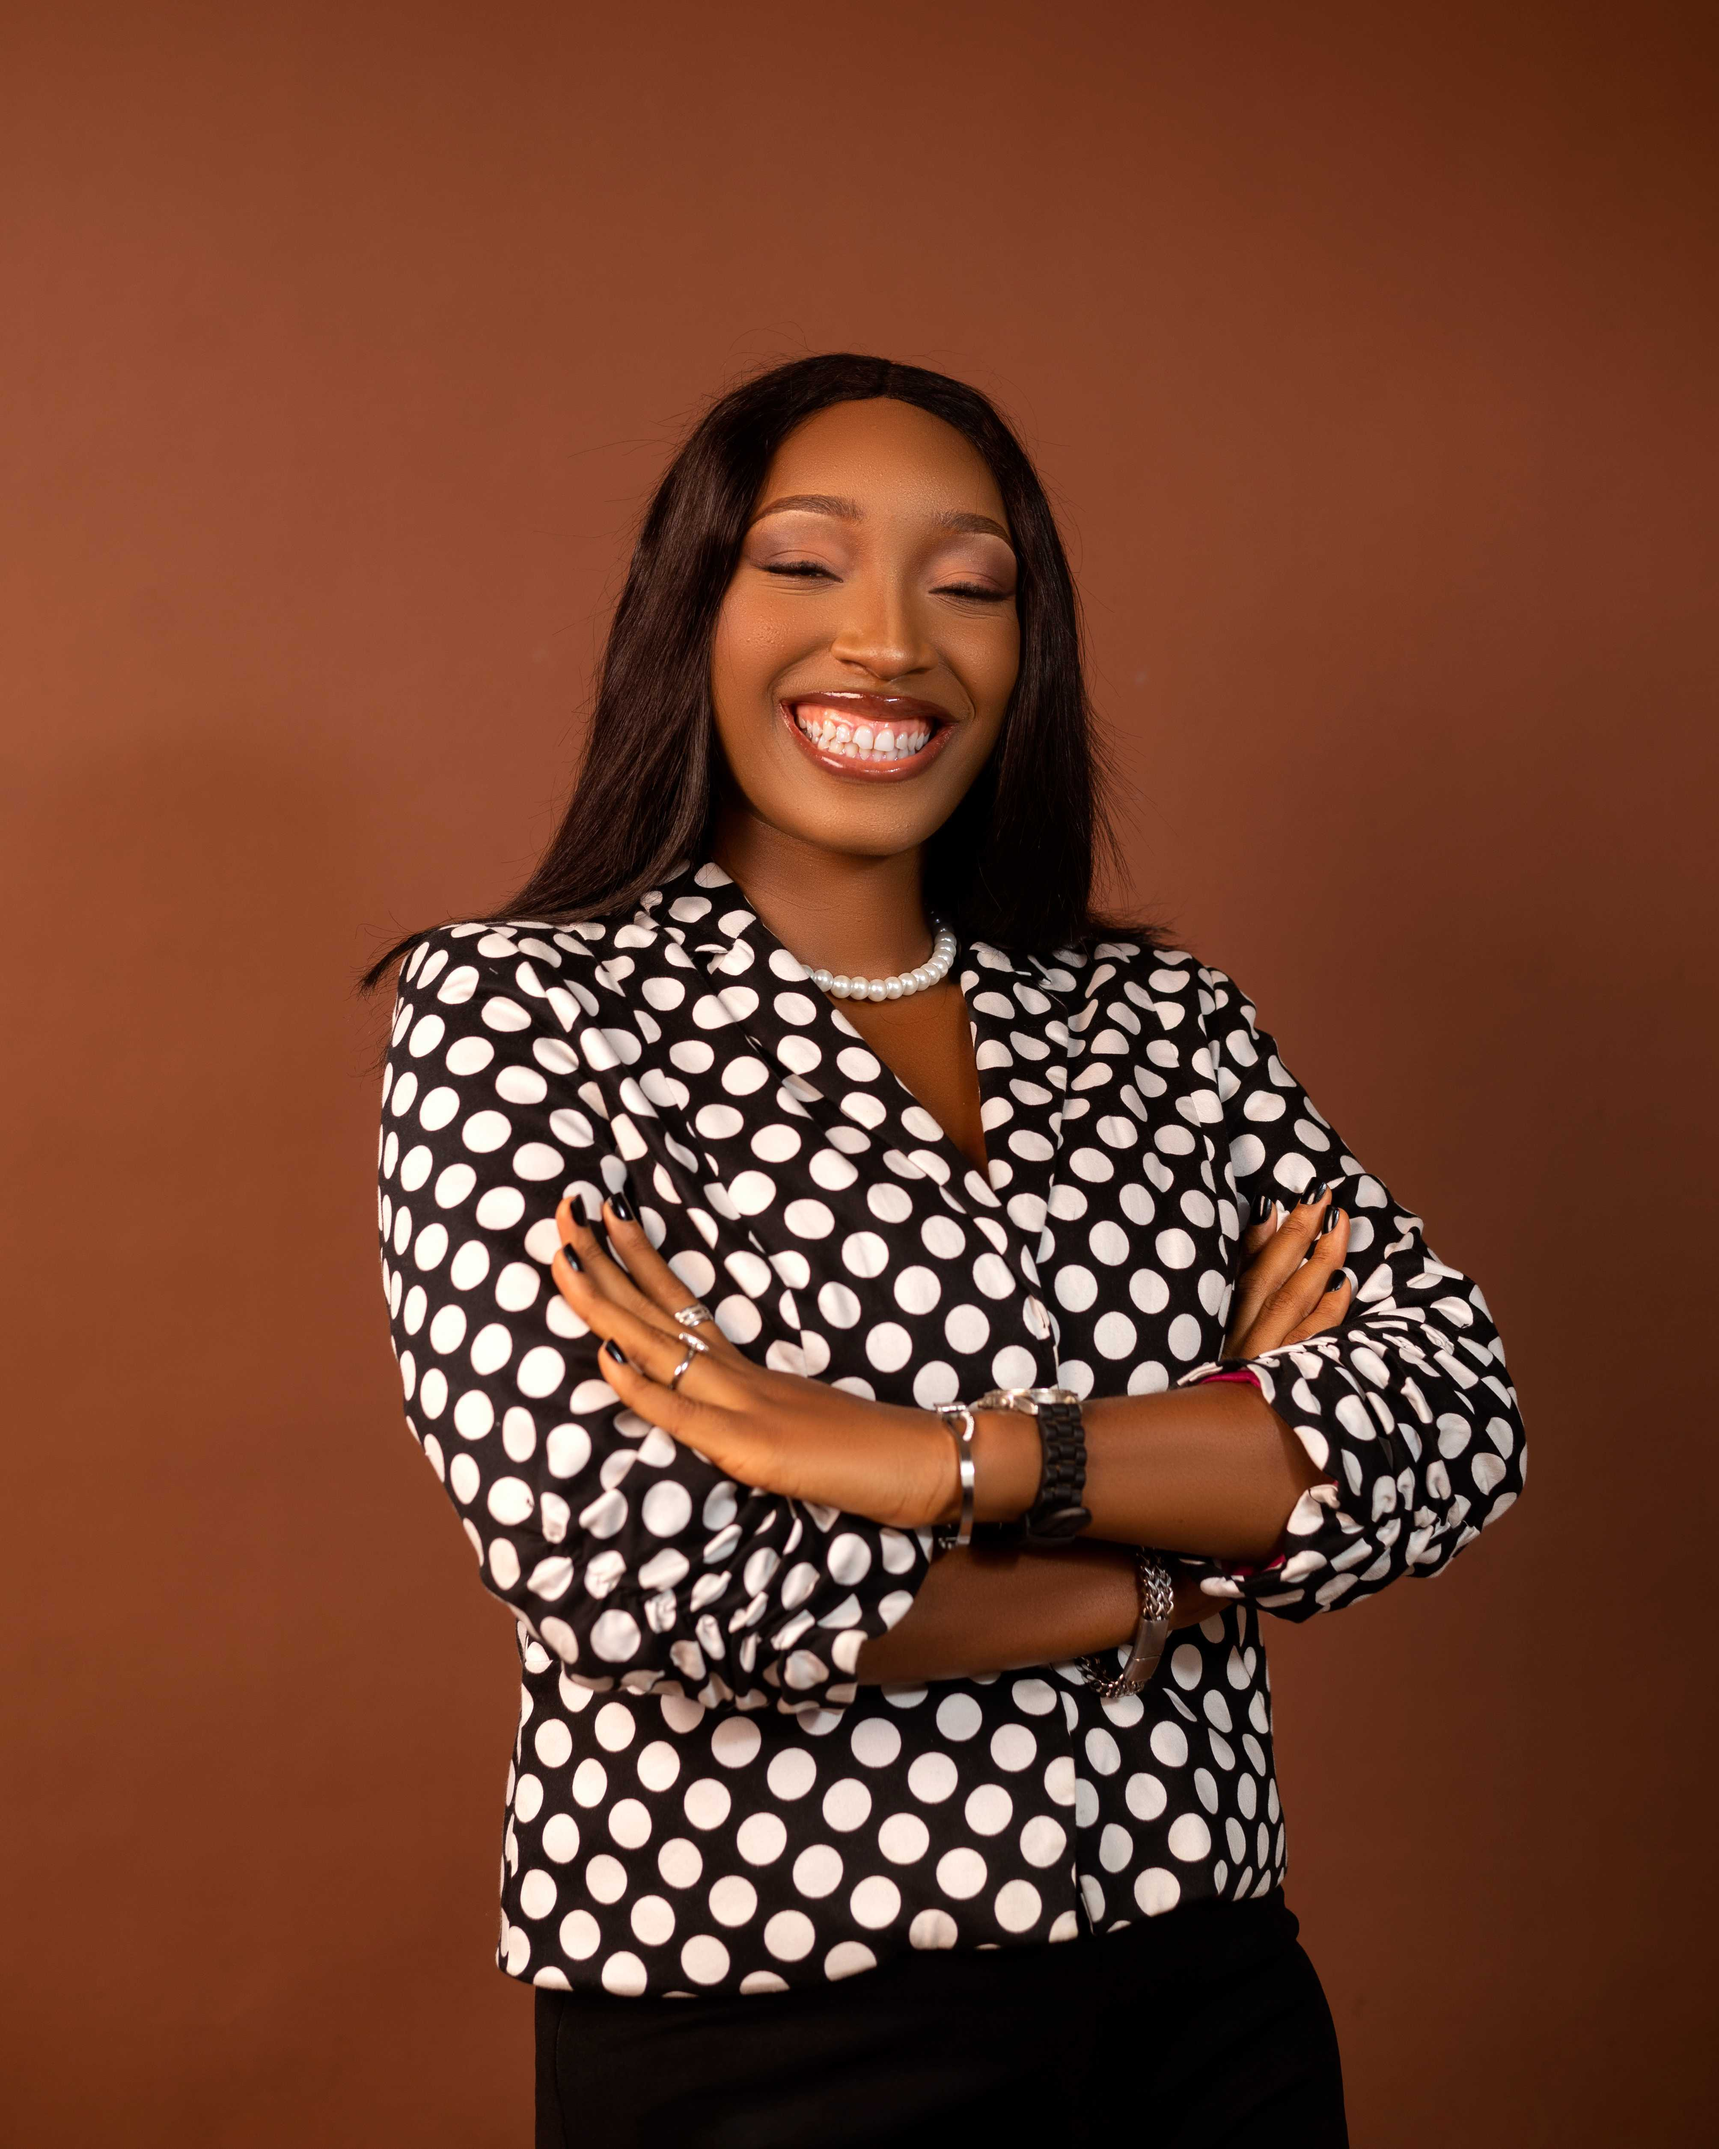
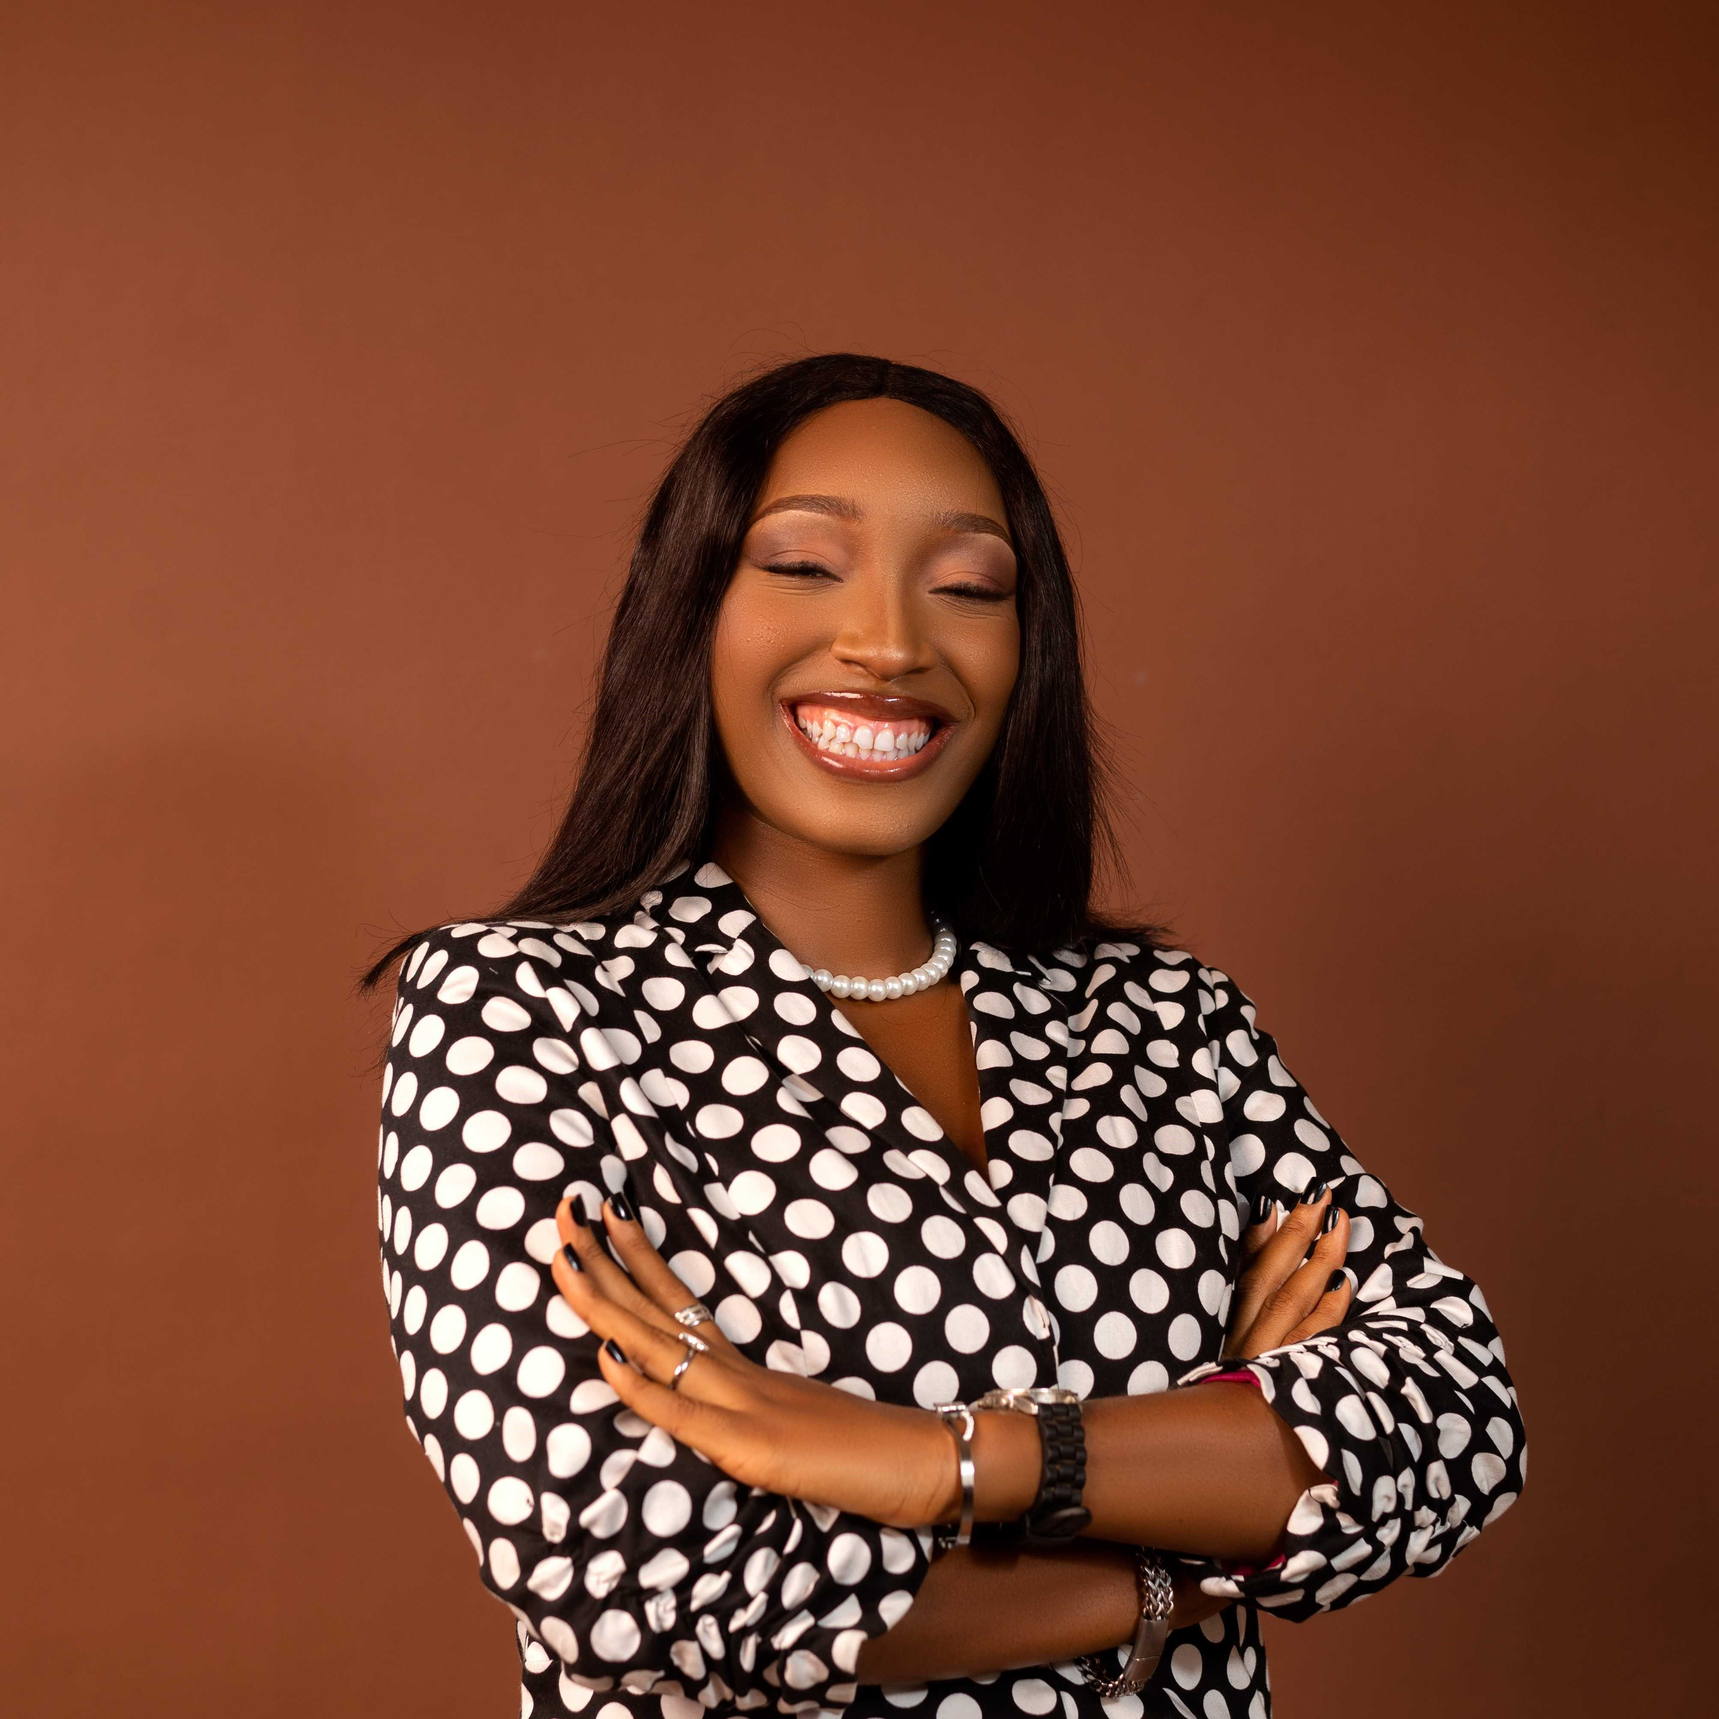
e

diff --git a/js/creatingTestimonialCarousel.js b/js/creatingTestimonialCarousel.js
@@ -2,13 +2,13 @@
 const slideListFiller = [
   {
     id: 1,
-    image:" images\testimonialImages\ugochiOguike.webp ",
+    image: "images/testimonialImages/successNwakpa.webp",
     name: "Success Nwankpa",
     testimony: `Good evening, Excellencies! I am Excellent Success, Success Nwankpa.I just concluded my discipleship call with the steward, @Excellent Nancy, and it was truly transformative.I used the word "transformative" because just a few minutes before the call, I was feeling down, there is a power outage, it left my laptop unusable. I have important tasks to complete to meet upcoming timelines, and I was also troubled by some family issues. However, joining the call opened my eyes to hope and strengthened me by the grace of God.During our conversation, Excellent Nancy shared some of her undergraduate experiences, which resonated deeply with me. I left the call feeling uplifted and strengthened in God's word; I even received insights to share with my twin sister.I am continually grateful for this community of Godliness and excellence.God bless you, @Excellent Nancy; may you receive more of God's grace ma.God bless us all!`,
   },
   {
     id: 2,
-    image: "images/girl.svg",
+    image: "images/testimonialImages/soarHq.webp",
     name: "Somtochukwu Okoroafor",
 
     testimony: `
@@ -24,7 +24,7 @@ const slideListFiller = [
 
   {
     id: 3,
-    image: "images/girl.svg",
+    image: "images/testimonialImages/soarHq.webp",
     name: "Udoka Ngozichukwu",
     testimony: `
     Good morning Excellencies
@@ -40,7 +40,7 @@ const slideListFiller = [
 
   {
     id: 4,
-    image: "images/girl.svg",
+    image: "images/testimonialImages/faithNdubisi.webp",
     name: "Chukwuma-Emeaso Faith Adaeze",
     testimony: `
     Good Afternoon Excellencies
@@ -51,7 +51,7 @@ const slideListFiller = [
   },
   {
     id: 5,
-    image: "images/girl.svg",
+    image: "images/testimonialImages/ugochiOguike.webp",
     name: "Ugochi Oguikpe",
     testimony: `
     Hello Excellencies,
@@ -64,7 +64,7 @@ const slideListFiller = [
   },
   {
     id: 6,
-    image: "images/girl.svg",
+    image: "images/testimonialImages/faithNdubisi.webp",
     name: "Faith Ndubuisi N.",
     testimony: `
     Good day Excellencies,
@@ -80,7 +80,7 @@ const slideListFiller = [
   },
   {
     id: 7,
-    image: "images/girl.svg",
+    image: "images/testimonialImages/chinazaMartha.webp",
     name: "Chinaza Martha",
     testimony: `
     As far as my eyes can see."
@@ -97,7 +97,7 @@ const slideListFiller = [
   },
   {
     id: 8,
-    image: "images/girl.svg",
+    image: "images/testimonialImages/janeDaniel.webp",
     name: "Jane Daniel",
     testimony: `Hello Excellencies,
     I am Excellent Jane.
@@ -110,7 +110,7 @@ const slideListFiller = [
   },
   {
     id: 9,
-    image: "images/girl.svg",
+    image: "images/testimonialImages/soarHq.webp",
     name: "Jayeola Oluwatoyin Eunice",
     testimony: `Hello Excellencies,
     I am Excellent Eunice.

diff --git a/css/style.css b/css/style.css
@@ -465,7 +465,7 @@ body::-webkit-scrollbar {
   width: 8rem;
   border: 1px solid #d4af37c5;
   aspect-ratio: 1/1;
-  object-fit: cover;
+  object-fit: contain;
   border-radius: 50%;
 }
 
@@ -1123,6 +1123,10 @@ filter: grayscale(1);
 }
 
 @media (max-width: 750px) {
+#testimonialBlock{
+  flex-direction: column;
+}
+
   .testimonialcard h3 {
     font-size: 1.5rem;
   }
@@ -1131,6 +1135,11 @@ filter: grayscale(1);
     height: 25vh;
   }
 }
+
+@media (max-width: 730px) {
+  #testimonialBlock{
+  flex-direction: column;
+}}
 
 @media (max-width: 650px) {
   #testimonialSection .figureWrap {
@@ -1531,6 +1540,11 @@ right: -1rem;
     width: 80vw;
     height: auto;
   }
+
+.testCard{
+  display: flex;
+  flex-direction: column;
+}
 
   /* .meetOurTeamLayer {
     display: flex;
